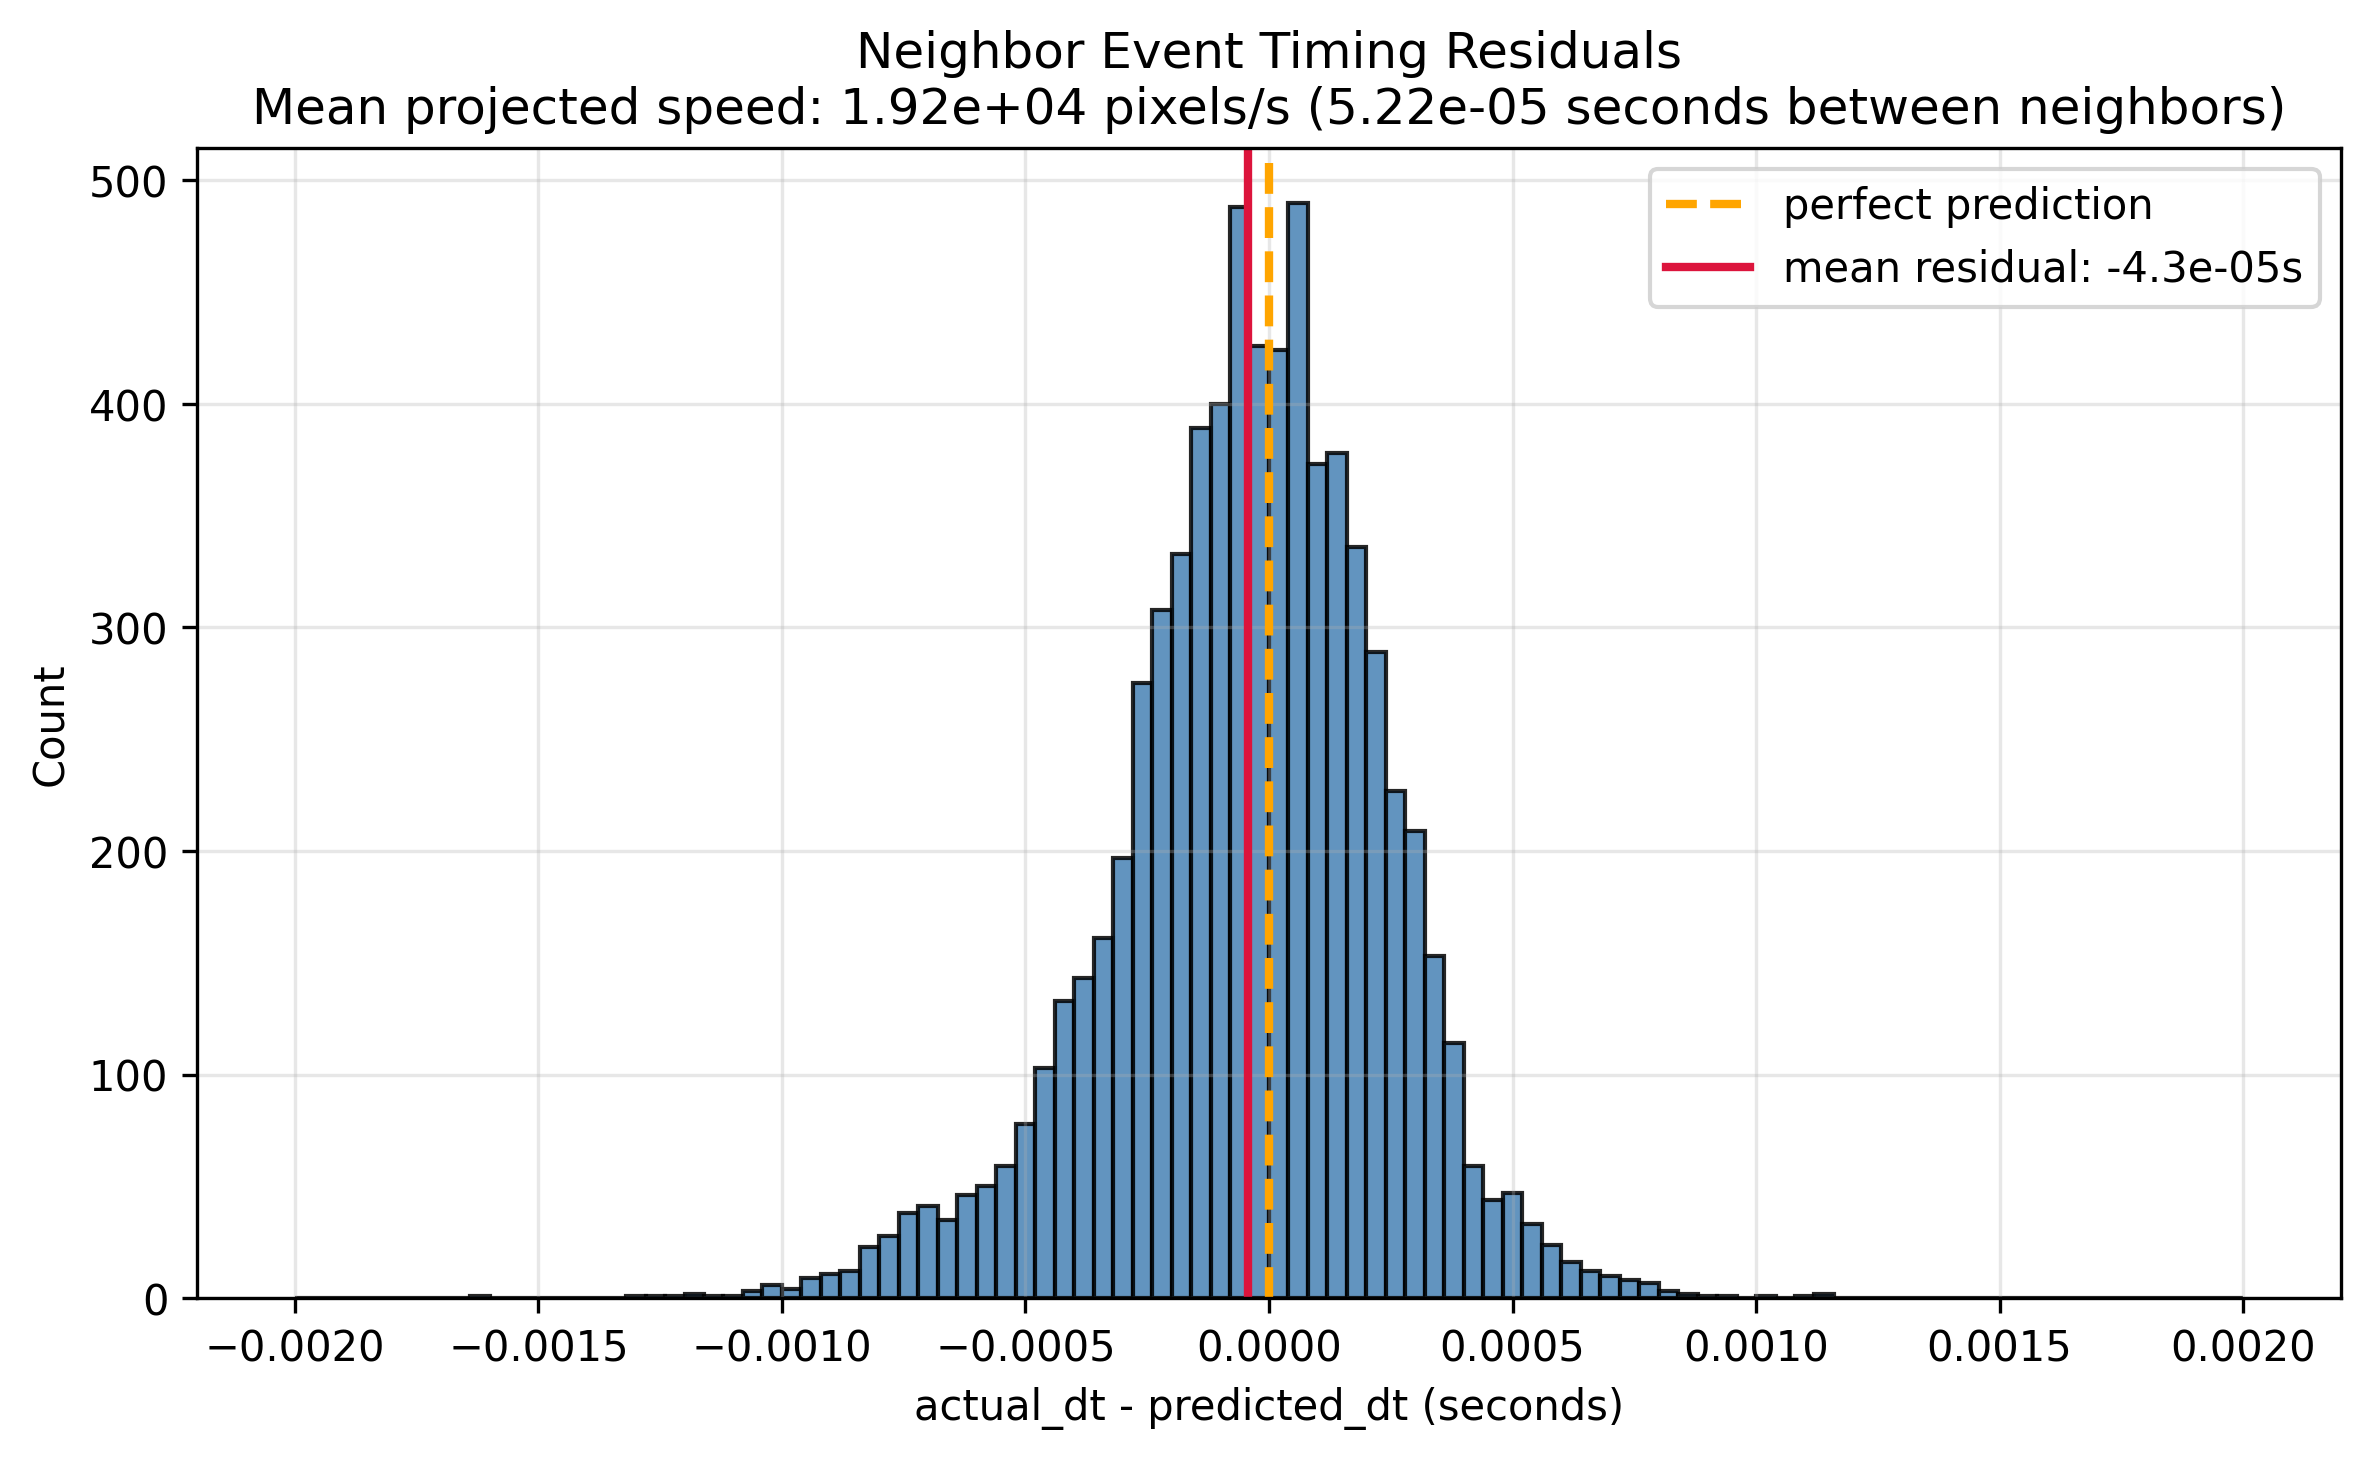
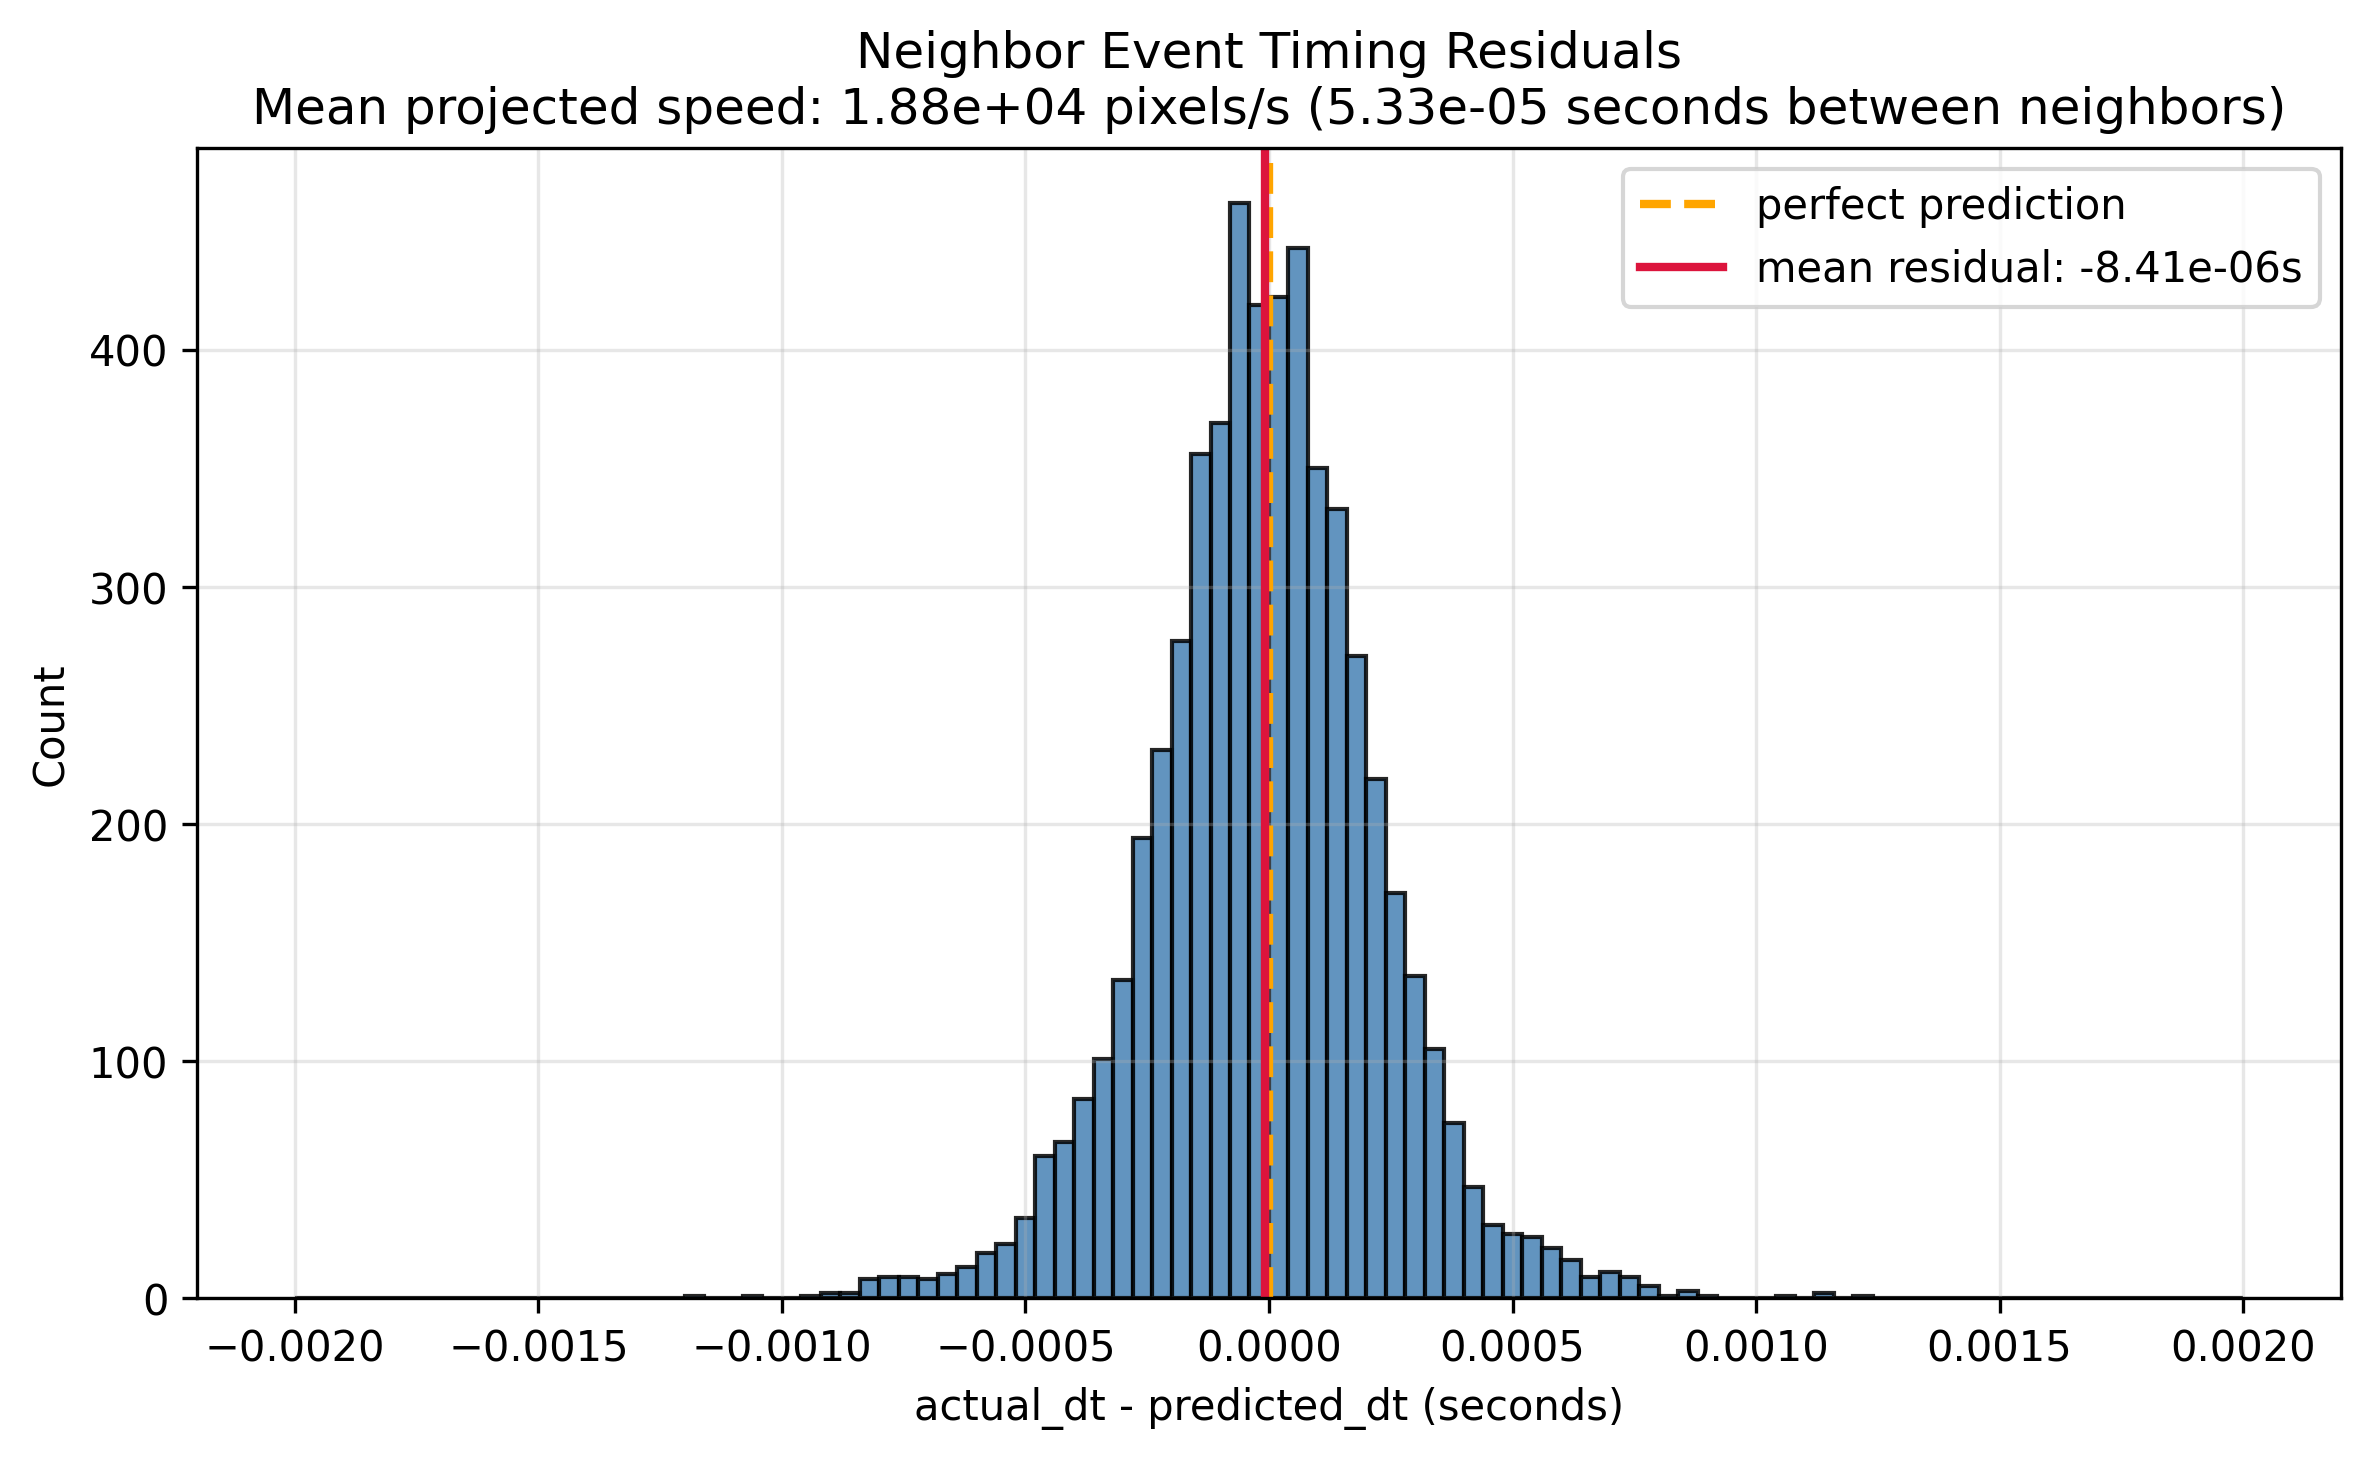
update for accurate velocity and require equal events as neighbors calculation

diff --git a/neighbor_time_prediction.py b/neighbor_time_prediction.py
@@ -139,6 +139,33 @@ def pixel_time_lookup(events):
     return lookup
 
 
+def add_event_count_columns(predictions, events):
+    counts = (
+        events.assign(
+            event_x=np.rint(events["x"]).astype(int),
+            event_y=np.rint(events["y"]).astype(int),
+        )
+        .groupby(["event_x", "event_y"])
+        .size()
+        .rename("event_count")
+        .reset_index()
+    )
+    above_counts = counts.rename(
+        columns={
+            "event_x": "above_x",
+            "event_y": "above_y",
+            "event_count": "above_event_count",
+        }
+    )
+
+    predictions = predictions.copy()
+    predictions["above_x"] = predictions["event_x"]
+    predictions["above_y"] = predictions["event_y"] - 1
+    predictions = predictions.merge(counts, on=["event_x", "event_y"], how="left")
+    predictions = predictions.merge(above_counts, on=["above_x", "above_y"], how="left")
+    return predictions
+
+
 def add_actual_neighbor_times(predictions, events):
     lookup = pixel_time_lookup(events)
     actual_times = np.full(len(predictions), np.nan, dtype=float)
@@ -165,7 +192,17 @@ def add_actual_neighbor_times(predictions, events):
     return predictions
 
 
-def prediction_residuals(events, velocities, width, height, axis="x", dx=None, dy=None, min_speed=1e-9):
+def prediction_residuals(
+    events,
+    velocities,
+    width,
+    height,
+    axis="x",
+    dx=None,
+    dy=None,
+    min_speed=1e-9,
+    require_above_equal_events=False,
+):
     events_with_velocity = attach_velocity_windows(events, velocities)
     predictions = add_neighbor_predictions(
         events_with_velocity,
@@ -176,6 +213,13 @@ def prediction_residuals(events, velocities, width, height, axis="x", dx=None, d
         dy=dy,
         min_speed=min_speed,
     )
+    if require_above_equal_events:
+        predictions = add_event_count_columns(predictions, events)
+        predictions = predictions[
+            predictions["event_count"].notna()
+            & predictions["above_event_count"].notna()
+            & (predictions["event_count"] == predictions["above_event_count"])
+        ].copy()
     residuals = add_actual_neighbor_times(predictions, events)
     columns = [
         "window_index",
@@ -191,6 +235,8 @@ def prediction_residuals(events, velocities, width, height, axis="x", dx=None, d
         "neighbor_dy",
         "target_x",
         "target_y",
+        "event_count",
+        "above_event_count",
         "velocity_component_pixels_per_s",
         "predicted_dt",
         "predicted_t",
@@ -370,6 +416,11 @@ def main():
     parser.add_argument("--dx", type=int, default=None, help="Explicit neighbor x offset.")
     parser.add_argument("--dy", type=int, default=None, help="Explicit neighbor y offset.")
     parser.add_argument("--min_speed", type=float, default=1e-9, help="Minimum projected speed to make a prediction.")
+    parser.add_argument(
+        "--require_above_equal_events",
+        action="store_true",
+        help="Only calculate residuals for pixels whose above neighbor has the same total event count.",
+    )
     parser.add_argument("--bins", type=int, default=100, help="Histogram bins.")
     parser.add_argument("--min_residual", type=float, default=-0.001, help="Minimum residual to plot.")
     parser.add_argument("--max_residual", type=float, default=None, help="Maximum residual to plot.")
@@ -417,6 +468,7 @@ def main():
         dx=args.dx,
         dy=args.dy,
         min_speed=args.min_speed,
+        require_above_equal_events=args.require_above_equal_events,
     )
     if residuals.empty:
         raise ValueError("No neighbor timing residuals were generated. Check velocity direction, line, and event density.")

diff --git a/center_of_mass.py b/center_of_mass.py
@@ -93,24 +93,48 @@ def center_of_mass_velocities(snapshots):
     velocities["prev_center_t"] = velocities["center_t"].shift(1)
     velocities["prev_com_x"] = velocities["com_x"].shift(1)
     velocities["prev_com_y"] = velocities["com_y"].shift(1)
-    velocities["dt"] = velocities["center_t"] - velocities["prev_center_t"]
+    velocities["next_center_t"] = velocities["center_t"].shift(-1)
+    velocities["next_com_x"] = velocities["com_x"].shift(-1)
+    velocities["next_com_y"] = velocities["com_y"].shift(-1)
+    velocities["prev_dt"] = velocities["center_t"] - velocities["prev_center_t"]
+    velocities["next_dt"] = velocities["next_center_t"] - velocities["center_t"]
 
-    valid = (
-        velocities["dt"].notna()
-        & (velocities["dt"] > 0)
+    prev_valid = (
+        velocities["prev_dt"].notna()
+        & (velocities["prev_dt"] > 0)
         & velocities["com_x"].notna()
         & velocities["com_y"].notna()
         & velocities["prev_com_x"].notna()
         & velocities["prev_com_y"].notna()
     )
+    next_valid = (
+        velocities["next_dt"].notna()
+        & (velocities["next_dt"] > 0)
+        & velocities["com_x"].notna()
+        & velocities["com_y"].notna()
+        & velocities["next_com_x"].notna()
+        & velocities["next_com_y"].notna()
+    )
+    prev_vx = (velocities["com_x"] - velocities["prev_com_x"]) / velocities["prev_dt"]
+    prev_vy = (velocities["com_y"] - velocities["prev_com_y"]) / velocities["prev_dt"]
+    next_vx = (velocities["next_com_x"] - velocities["com_x"]) / velocities["next_dt"]
+    next_vy = (velocities["next_com_y"] - velocities["com_y"]) / velocities["next_dt"]
+    prev_vx = prev_vx.where(prev_valid)
+    prev_vy = prev_vy.where(prev_valid)
+    next_vx = next_vx.where(next_valid)
+    next_vy = next_vy.where(next_valid)
+
+    velocities["dt"] = pd.concat(
+        [
+            velocities["prev_dt"].where(prev_valid),
+            velocities["next_dt"].where(next_valid),
+        ],
+        axis=1,
+    ).mean(axis=1)
     velocities["vx_pixels_per_s"] = np.nan
     velocities["vy_pixels_per_s"] = np.nan
-    velocities.loc[valid, "vx_pixels_per_s"] = (
-        velocities.loc[valid, "com_x"] - velocities.loc[valid, "prev_com_x"]
-    ) / velocities.loc[valid, "dt"]
-    velocities.loc[valid, "vy_pixels_per_s"] = (
-        velocities.loc[valid, "com_y"] - velocities.loc[valid, "prev_com_y"]
-    ) / velocities.loc[valid, "dt"]
+    velocities["vx_pixels_per_s"] = pd.concat([prev_vx, next_vx], axis=1).mean(axis=1)
+    velocities["vy_pixels_per_s"] = pd.concat([prev_vy, next_vy], axis=1).mean(axis=1)
     velocities["speed_pixels_per_s"] = np.hypot(
         velocities["vx_pixels_per_s"],
         velocities["vy_pixels_per_s"],